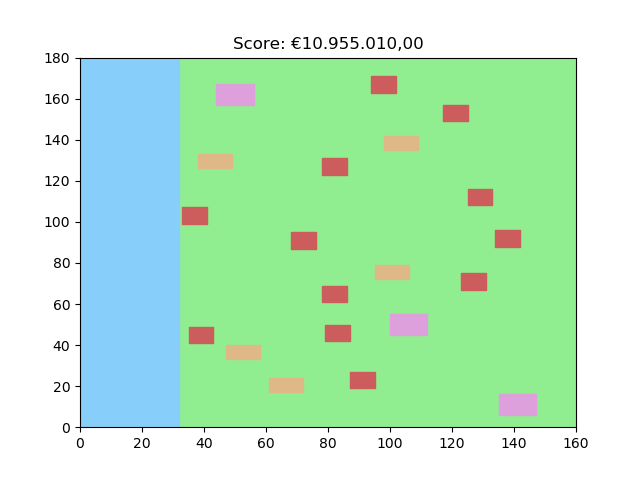
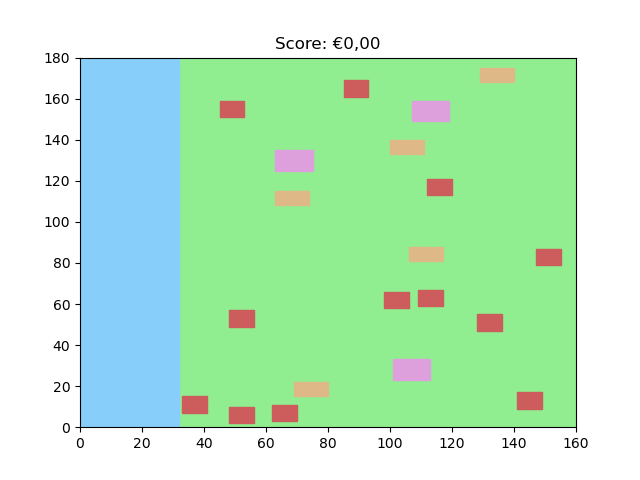
bugs weggehaald

diff --git a/main.py b/main.py
@@ -26,9 +26,10 @@ from code.algorithms.hillclimber import hillclimber_algorithm
 from code.algorithms.greedy import greedy_algorithm
 
 if __name__ == "__main__":
+    # set time from start algorithm 
+    t1 = time.time()
 
     ##################### set variables through command line input
-    t1 = time.time()
     # check if number of input arguments is correct
     if len(sys.argv) != 5:
         print("wrong input \n use: [approach] [iterations] [number of houses] [water map]")
@@ -71,18 +72,20 @@ if __name__ == "__main__":
 
     # execute greedy algorithm
     elif approach == "greedy":
-       neighbourhood, score = greedy_algorithm(iterations, water_layout, n_houses)
+        neighbourhood, score = greedy_algorithm(iterations, water_layout, n_houses)
 
     elif approach == "greedy-hillclimber":
         neighbourhood, score = greedy_algorithm(iterations, water_layout, n_houses)
         neighbourhood, score = hillclimber_algorithm(iterations, water_layout, n_houses, neighbourhood, score)
         
-    #if no algorithm is specified execute random algorithm
+    # if no algorithm or random is specified execute random algorithm
     else:
         neighbourhood, score = random_algorithm(iterations, water_layout, n_houses)
     
+    # create the wanted output and print the dataframe
     output = output(neighbourhood,score)
     print(output)
     
+    # set time from end algorithm and print the total duration
     t2 = time.time()
     print("Duration of algorithm: {} seconds".format(t2-t1))

diff --git a/code/algorithms/random.py b/code/algorithms/random.py
@@ -38,7 +38,7 @@ def random_algorithm(iterations, water_layout, max_houses):
         neighbourhood, new_score = housebuilder(max_houses, amount_maison,amount_bungalow,amount_sfh, neighbourhood)
 
         # if the score of the neighbourhood in this iteration is the highest till now than save the neighbourhood and the score
-        if score > highest_score:
+        if new_score > highest_score:
             best = neighbourhood
             score = new_score
 

diff --git a/code/helpers/output_generator.py b/code/helpers/output_generator.py
@@ -13,6 +13,8 @@ def output(neighbourhood, score):
 
     # turn the table into a dataframe
     df = pd.DataFrame(table, columns=["structure", "corner_1", "corner_2", "corner_3", "corner_4", "type"]).set_index("structure")
-
     # save the dataframe as a csv file
+    df.to_csv("output.csv")
+    
+    # return the dataframe
     return df
